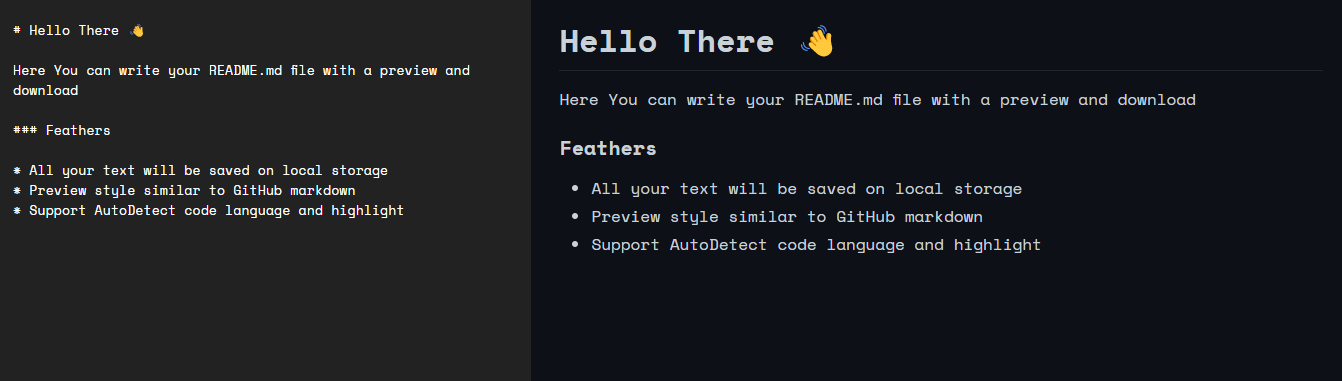
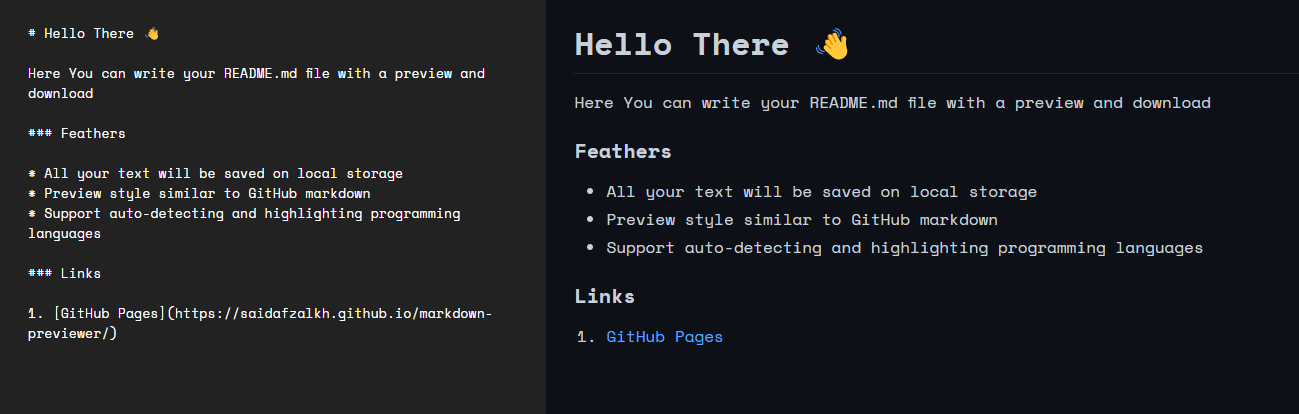
md file

diff --git a/README.md b/README.md
@@ -8,7 +8,7 @@ Here You can write your README.md file with a preview and download
 
 * All your text will be saved on local storage
 * Preview style similar to GitHub markdown
-* Support auto-detecting programming languages
+* Support auto-detecting and highlighting programming languages
 
 ### Links
 
